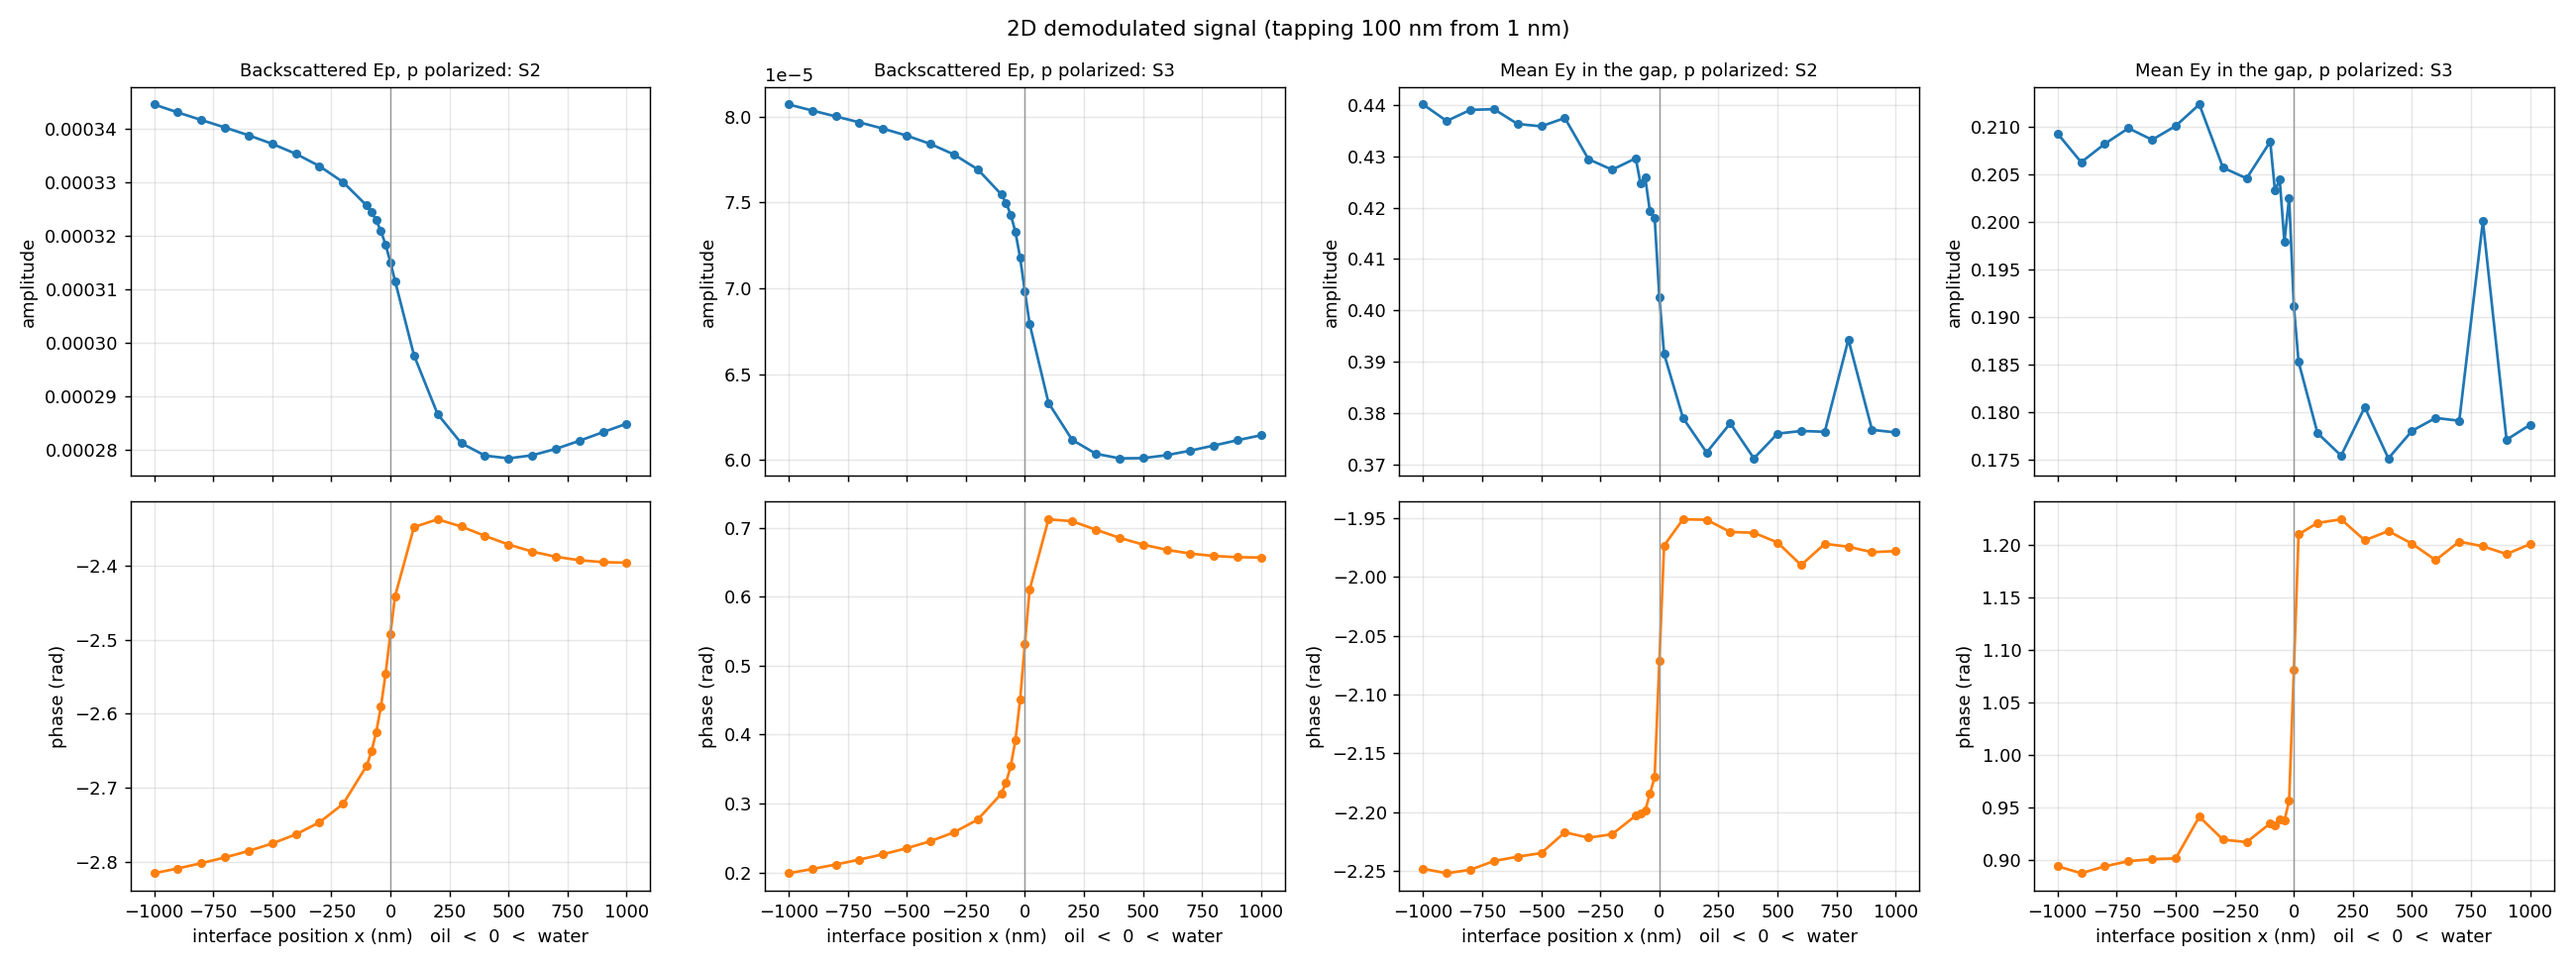
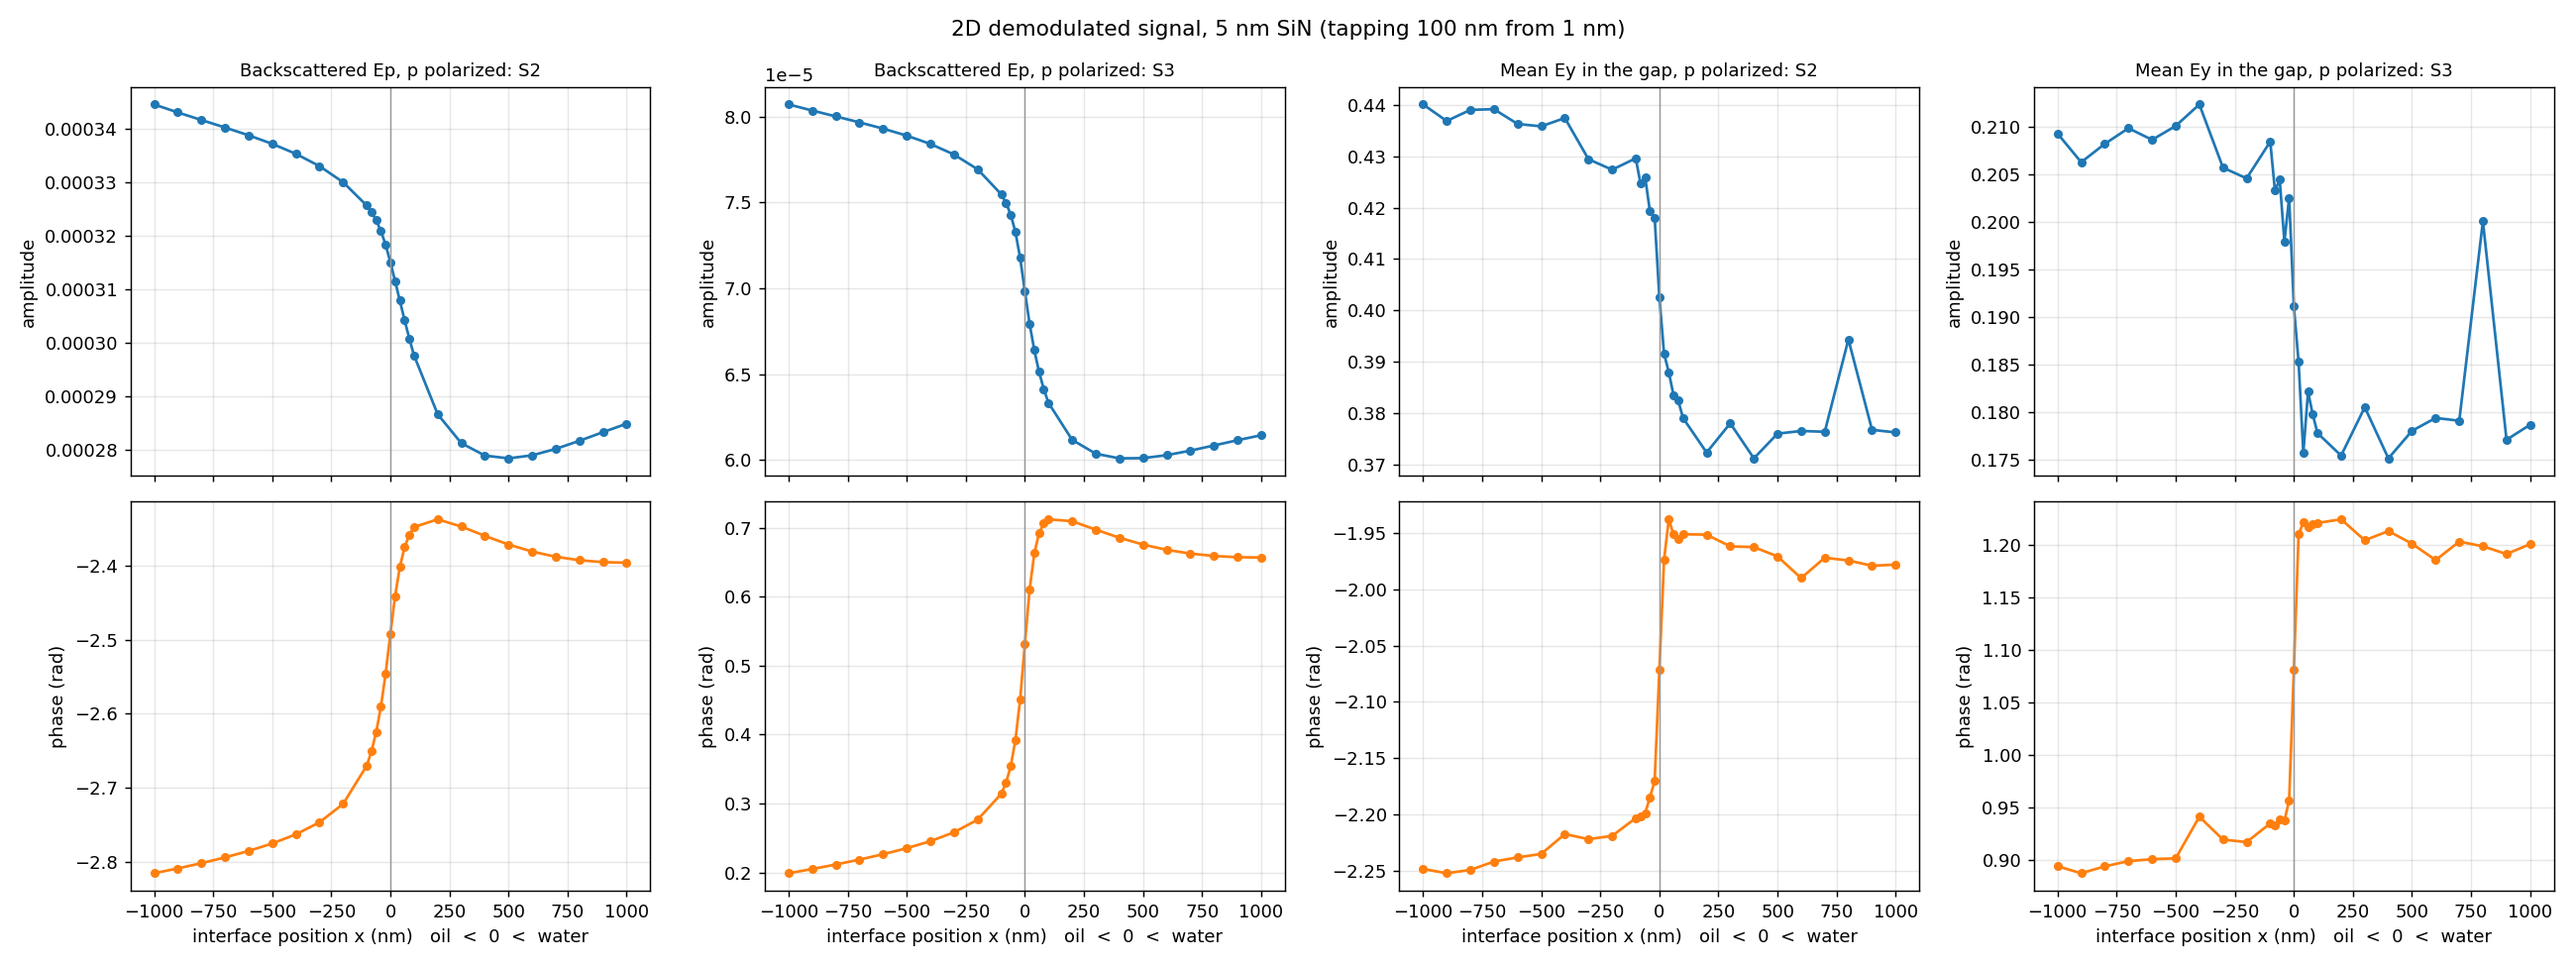
2D: plots with complete 5 nm fill; 20 nm approach curves; stage sets (--set sin20) and 5 vs 20 nm compare

diff --git a/Interface_LineScan_2D/plot_2d.py b/Interface_LineScan_2D/plot_2d.py
@@ -15,6 +15,12 @@ matplotlib.use('Agg')
 import matplotlib.pyplot as plt
 
 HERE = os.path.dirname(os.path.abspath(__file__))
+if '--set' in sys.argv:                      # e.g.  python plot_2d.py demod --set sin20
+    _i = sys.argv.index('--set')
+    _SET_ARG = sys.argv[_i + 1]
+    del sys.argv[_i:_i + 2]
+else:
+    _SET_ARG = None
 RESULTS = os.path.join(HERE, 'results')
 FIGS = os.path.join(HERE, 'figures')
 
@@ -127,7 +133,7 @@ def plot_complex(stage, gap=5):
     print('wrote', out)
 
 
-if __name__ == '__main__' and (len(sys.argv) < 2 or sys.argv[1] not in ('ep_sub', 'ep_step', 'ep_lines', 'approach', 'demod', 's2s3', 'nearfield')):
+if __name__ == '__main__' and (len(sys.argv) < 2 or sys.argv[1] not in ('ep_sub', 'ep_step', 'ep_lines', 'approach', 'demod', 's2s3', 'nearfield', 'compare')):
     what = sys.argv[1] if len(sys.argv) > 1 else 'scan_h5'
     plot_scan(what)
     plot_combined(what)
@@ -293,9 +299,15 @@ LOG_RE = (r'x=([+-]?\d+) nm gap=([\d.]+) nm\s+\|Ep\|\(p_in\)=([\d.eE+-]+) arg=([
           r'\|gap int Ey\|\(p_in\)=([\d.eE+-]+) arg=([+-][\d.]+)')
 
 
-def approach_points(stages=('scan_demod', 'scan_h5', 'scan_demod_fill'), logfile=None):
+SETS = {'sin5': (('scan_demod', 'scan_h5', 'scan_demod_fill'), '', '5 nm SiN'),
+        'sin20': (('scan_demod_sin20',), '_sin20', '20 nm SiN')}
+SET = _SET_ARG or 'sin5'
+
+
+def approach_points(stages=None, logfile=None):
     """{(x, gap): (Ep, gap_integral)} from the pkl files, plus run_log-format lines (e.g. pasted) if given."""
     import re
+    stages = stages or SETS[SET][0]
     pts = {}
     if logfile:
         for m in re.finditer(LOG_RE, open(logfile).read()):
@@ -331,9 +343,9 @@ def plot_approach(logfile=None, xs=None):
     for a in ax.flat:
         a.grid(alpha=0.3)
     ax[0, 0].legend(fontsize=8)
-    fig.suptitle('2D approach curves')
+    fig.suptitle(f'2D approach curves, {SETS[SET][2]}')
     fig.tight_layout()
-    out = os.path.join(FIGS, 'approach_curves.png')
+    out = os.path.join(FIGS, 'approach_curves' + SETS[SET][1] + '.png')
     fig.savefig(out, dpi=130)
     print('wrote', out, 'positions:', xs)
 
@@ -382,9 +394,9 @@ def plot_demod(logfile=None, harmonics=(2, 3)):
             for a in ax[:, col]:
                 a.axvline(0, color='0.6', lw=0.8)
                 a.grid(alpha=0.3)
-    fig.suptitle(f'2D demodulated signal (tapping {TAP_AMPLITUDE} nm from {MIN_GAP} nm)')
+    fig.suptitle(f'2D demodulated signal, {SETS[SET][2]} (tapping {TAP_AMPLITUDE} nm from {MIN_GAP} nm)')
     fig.tight_layout()
-    out = os.path.join(FIGS, 'demod_vs_x.png')
+    out = os.path.join(FIGS, 'demod_vs_x' + SETS[SET][1] + '.png')
     fig.savefig(out, dpi=130)
     print('wrote', out)
     for r in rows:
@@ -421,9 +433,9 @@ def plot_s2_over_s3(logfile=None):
         for a in ax[:, col]:
             a.axvline(0, color='0.6', lw=0.8)
             a.grid(alpha=0.3)
-    fig.suptitle(f'2D S2 / S3 (tapping {TAP_AMPLITUDE} nm from {MIN_GAP} nm)')
+    fig.suptitle(f'2D S2 / S3, {SETS[SET][2]} (tapping {TAP_AMPLITUDE} nm from {MIN_GAP} nm)')
     fig.tight_layout()
-    out = os.path.join(FIGS, 'S2_over_S3_vs_x.png')
+    out = os.path.join(FIGS, 'S2_over_S3_vs_x' + SETS[SET][1] + '.png')
     fig.savefig(out, dpi=130)
     print('wrote', out)
     for r in rows:
@@ -469,3 +481,49 @@ def plot_near_field_low_gap(gap=1, stages=('scan_demod', 'scan_h5', 'scan_demod_
 
 if __name__ == '__main__' and len(sys.argv) > 1 and sys.argv[1] == 'nearfield':
     plot_near_field_low_gap(gap=float(sys.argv[2]) if len(sys.argv) > 2 else 1)
+
+
+def demod_rows(set_name):
+    """[(x, {n: S_n of Ep}, {n: S_n of mean gap Ey})] for positions with the full tapping range."""
+    pts = approach_points(stages=SETS[set_name][0])
+    rows = []
+    for x in sorted({x for x, g in pts}):
+        gs = np.array(sorted(g for xx, g in pts if xx == x))
+        if len(gs) < 10 or gs.min() > MIN_GAP or gs.max() < MIN_GAP + TAP_AMPLITUDE:
+            continue
+        rows.append((x, demodulate(gs, np.array([pts[(x, g)][0] for g in gs])),
+                     demodulate(gs, np.array([pts[(x, g)][1] for g in gs])/gs)))
+    return rows
+
+
+def plot_compare_sin():
+    """5 nm vs 20 nm SiN: S2, S3 and S2/S3 of the backscattered Ep vs x, each normalized to its oil end."""
+    fig, ax = plt.subplots(2, 3, figsize=(16, 7.5), sharex=True)
+    for set_name, c in (('sin5', 'C0'), ('sin20', 'C3')):
+        rows = demod_rows(set_name)
+        if not rows:
+            continue
+        x = np.array([r[0] for r in rows])
+        for j, (lab, v) in enumerate((('S2', np.array([r[1][2] for r in rows])),
+                                      ('S3', np.array([r[1][3] for r in rows])),
+                                      ('S2 / S3', np.array([r[1][2]/r[1][3] for r in rows])))):
+            ax[0, j].plot(x, np.abs(v)/np.abs(v[0]), 'o-', ms=4, color=c, label=SETS[set_name][2])
+            ax[1, j].plot(x, np.unwrap(np.angle(v)) - np.angle(v[0]), 'o-', ms=4, color=c)
+            ax[0, j].set_title(f'Backscattered Ep, p polarized: {lab}', fontsize=10)
+    for j in range(3):
+        ax[0, j].set_ylabel(f'amplitude / value at x = -1000')
+        ax[1, j].set_ylabel('phase - phase at x = -1000 (rad)')
+        ax[1, j].set_xlabel('interface position x (nm)   oil  <  0  <  water')
+        for a in ax[:, j]:
+            a.axvline(0, color='0.6', lw=0.8)
+            a.grid(alpha=0.3)
+    ax[0, 0].legend()
+    fig.suptitle(f'2D, 5 nm vs 20 nm SiN window (tapping {TAP_AMPLITUDE} nm from {MIN_GAP} nm)')
+    fig.tight_layout()
+    out = os.path.join(FIGS, 'compare_sin5_sin20.png')
+    fig.savefig(out, dpi=130)
+    print('wrote', out)
+
+
+if __name__ == '__main__' and len(sys.argv) > 1 and sys.argv[1] == 'compare':
+    plot_compare_sin()
